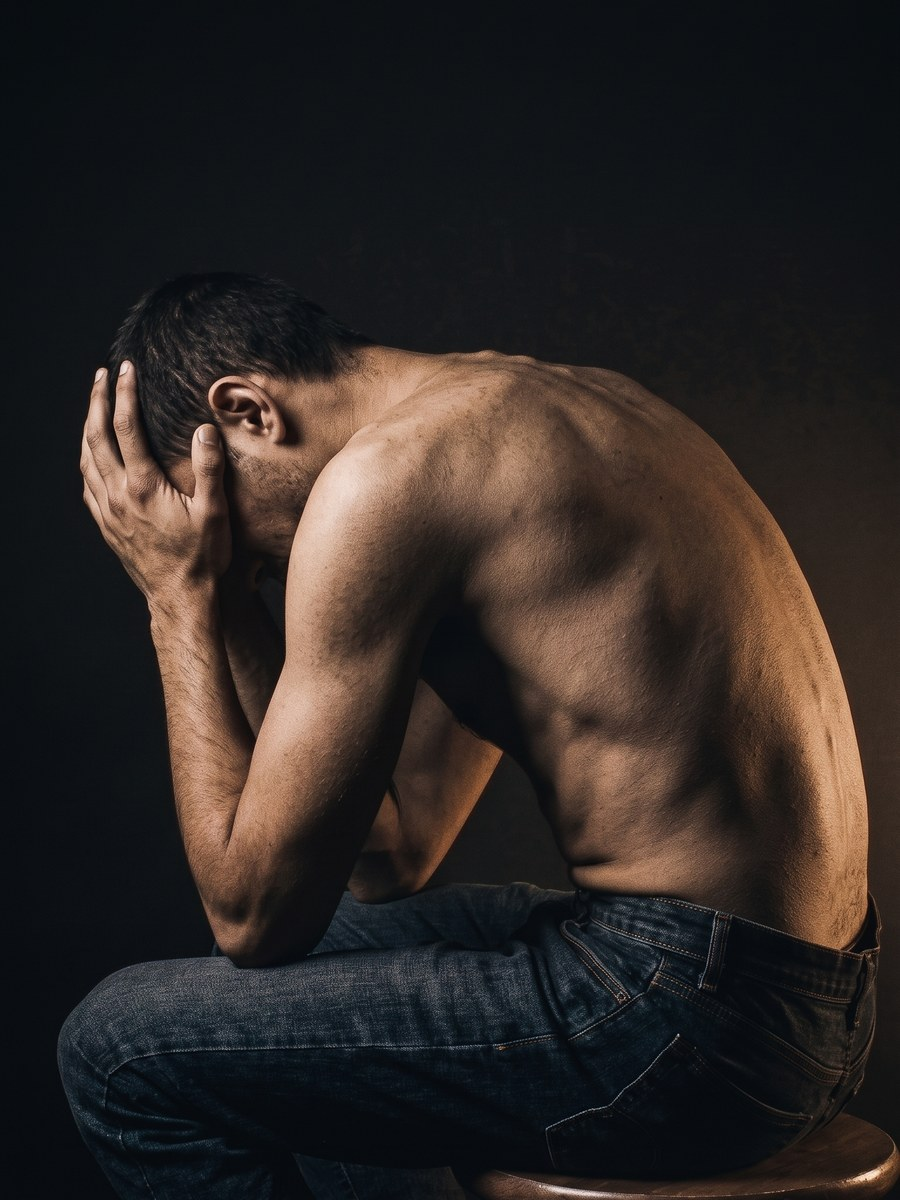
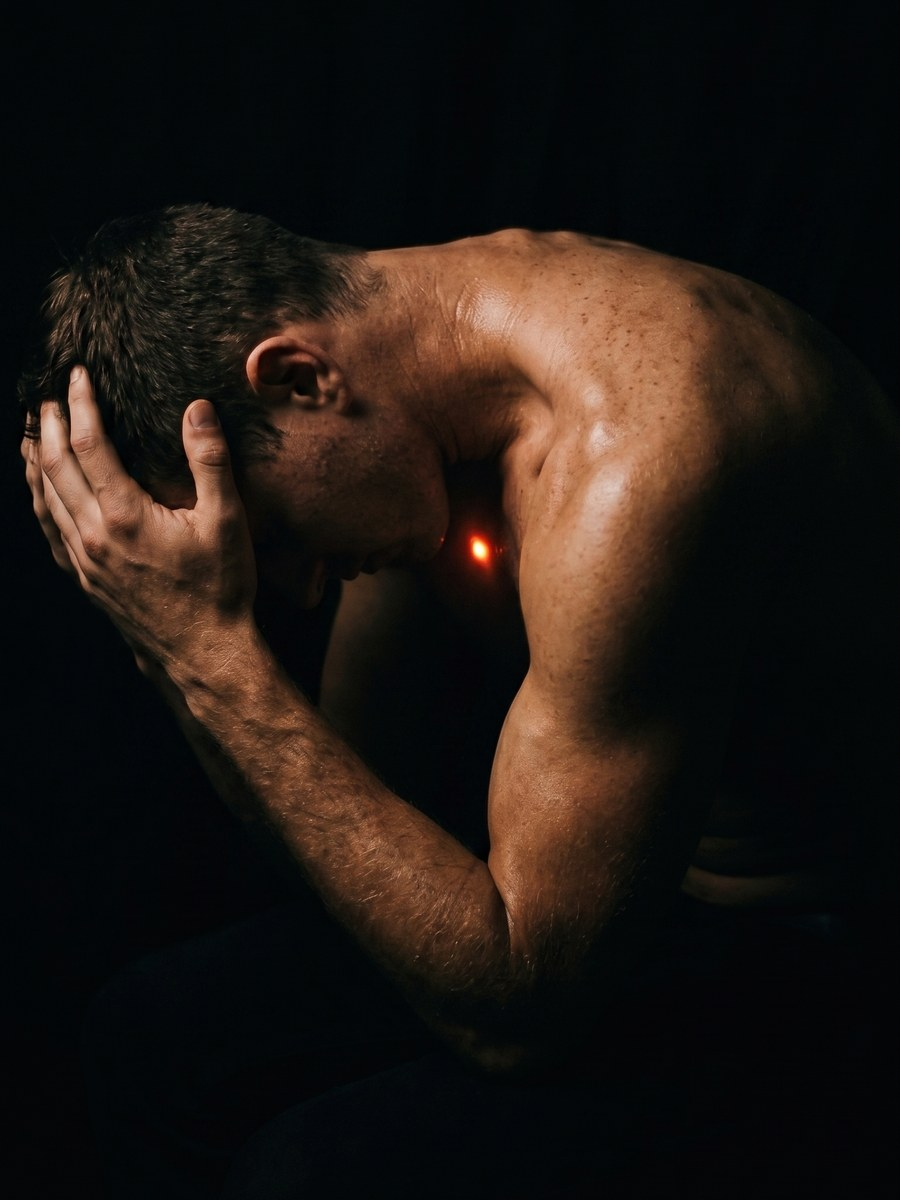
Карточка «Выгорание и стресс»: новый кадр (сгорбленный человек в темноте) — устранено визуальное дублирование с «Каменным телом»

diff --git a/index.html b/index.html
@@ -701,7 +701,7 @@
           <article class="request-strip" tabindex="0" role="button" aria-expanded="false" aria-label="Выгорание, стресс, бессонница, постоянное внутреннее напряжение">
             <picture>
               <source srcset="assets/request-3.webp" type="image/webp">
-              <img src="assets/request-3.jpg" alt="Человек сидит в темноте, опустив голову в ладони: выгорание и стресс" loading="lazy" width="900" height="1200">
+              <img src="assets/request-3.jpg" alt="Человек в темноте сгорбился, закрыв лицо рукой: выгорание и стресс" loading="lazy" width="900" height="1200">
             </picture>
             <div class="strip-scrim" aria-hidden="true"></div>
             <span class="strip-label" aria-hidden="true">Выгорание и стресс</span>
